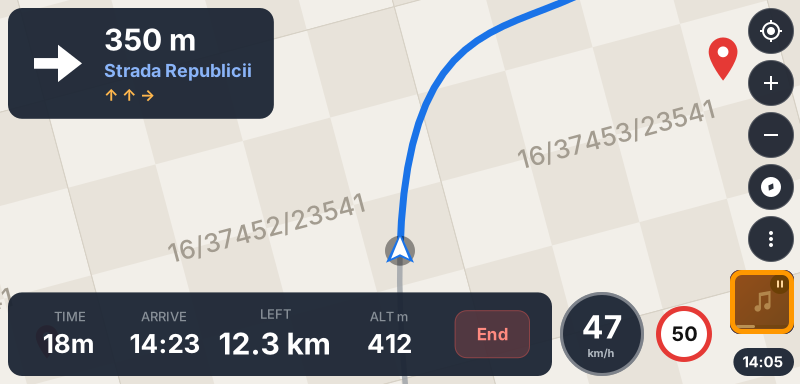
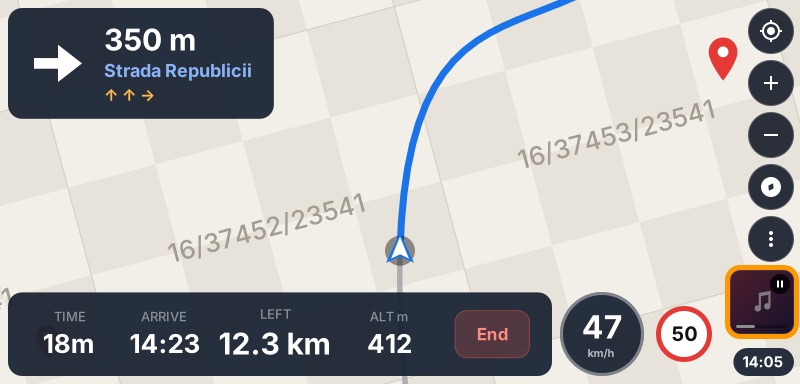
Dash music: the focus ring on the tile leaves the cover clean (F3)
Every close of the Music sheet (close, BACK, idle / near-turn auto-close,
the handlebar handed back) parks the focus on the now-playing tile, and
the usual ring painted its 40 % orange fill over the album cover plus a
5-dp stroke inside it, for the rest of the ride on non-touch dashes.

For music.tile only: no fill, and the stroke runs outside the cover (path
= frame grown by sw/2, radius 10 + sw/2 dp), so the band starts at the
cover's edge and follows its corners. Other controls keep their ring.

DashMusicFocusRingTests checks every canvas of the fix (800x384 with and
without screen margins, 800x400, 800x944, 720x704 with its 22-px top,
544x512, 1024x464, 1280x576) in free ride, navigating, off route, with a
lap card, banner + toast, night and no clock, playing and paused: one
ring, no fill, inner edge = the cover, inside the canvas and the safe
area, clear of every other hit region and of every other drawing (the
check is shown to cover the cards, FABs and clock). Closest: 1 px from
the safe-area edge, 3 px from the Menu FAB (portrait: the clock). The
touch-close case of the review keeps the cover clean at +5.1 s and +60 s.
The tests fail on the old ring.

Snapshots, reviewed: land-music-paused (regenerated) and new
land-music-tile-focus, land-margins-music-tile-focus,
port-music-paused-focus. Spec section 15 describes the ring.

Claude-Session: https://claude.ai/code/session_017N8FrDCFUzoEp21WnFFcfY

Changed region(s): [[0.9062, 0.6875, 1.0, 0.9062]]

diff --git a/Packages/OpenCfMotoKit/Tests/OpenCfMotoCoreTests/DashMusicFocusRingTests.swift b/Packages/OpenCfMotoKit/Tests/OpenCfMotoCoreTests/DashMusicFocusRingTests.swift
@@ -1,0 +1,206 @@
+// SPDX-License-Identifier: AGPL-3.0-or-later
+// Apple Music (iOS addition), fix F3: the handlebar focus ring parks on the now-playing tile after every
+// close of the Music sheet, so on the tile it has no fill and is stroked OUTSIDE the cover (the artwork
+// stays clean). On every supported canvas and map state the outset ring stays inside the canvas and the
+// safe area and clear of every other widget: hit regions and drawings (FABs, clock, cards, toasts).
+import XCTest
+@testable import OpenCfMotoCore
+
+final class DashMusicFocusRingTests: XCTestCase {
+    private let t0 = DashFixtures.musicNow
+
+    /// The canvases of fix F3 (screen margins: the 800×384 worst case of the tile tests; the NK
+    /// Advanced's 22-px pull-down zone on 720×704).
+    private let canvases: [(String, DashSize, ScreenMargins)] = [
+        ("800×384", DashSize(width: 800, height: 384), .zero),
+        ("800×384 margins", DashSize(width: 800, height: 384), ScreenMargins(top: 22, bottom: 10, left: 12, right: 14)),
+        ("800×400", DashSize(width: 800, height: 400), .zero),
+        ("800×944", DashSize(width: 800, height: 944), .zero),
+        ("720×704", DashSize(width: 720, height: 704), ScreenMargins(customised: false, top: 22)),
+        ("544×512", DashSize(width: 544, height: 512), .zero),
+        ("1024×464", DashSize(width: 1024, height: 464), .zero),
+        ("1280×576", DashSize(width: 1280, height: 576), .zero),
+    ]
+
+    /// Map states in which the tile is focusable, with what can sit next to it.
+    private func states(_ size: DashSize) -> [(String, DashModel)] {
+        let lap = DashLapTimer(title: "Lap 3 · 1:02.4", meta: "Best 0:59.8 · last 1:01.2")
+        var lapFree = DashFixtures.freeRide(size), lapNav = DashFixtures.navigating(size)
+        lapFree.lapTimer = lap
+        lapNav.lapTimer = lap
+        var overlays = DashFixtures.navigating(size)
+        overlays.linkBanner = "Reconnecting…"
+        overlays.toastText = "Handlebar buttons control the dash again"
+        var night = DashFixtures.navigating(size)
+        night.isNight = true
+        var noClock = DashFixtures.freeRide(size)
+        noClock.showClock = false
+        return [("free", DashFixtures.freeRide(size)), ("nav", DashFixtures.navigating(size)),
+                ("off-route", DashFixtures.navigating(size, offRoute: true)), ("lap", lapFree), ("lap nav", lapNav),
+                ("banner+toast", overlays), ("night", night), ("no clock", noClock)]
+    }
+
+    private struct Ring {
+        /// The stroked path's box and the stroke width.
+        var path: DashRect, width: Double
+        /// What the stroke paints: from `inner` to `outer`.
+        var outer: DashRect { path.insetBy(dx: -width / 2, dy: -width / 2) }
+        var inner: DashRect { path.insetBy(dx: width / 2, dy: width / 2) }
+    }
+
+    private func rings(_ list: DashDisplayList) -> [Ring] {
+        list.commands.compactMap {
+            guard case let .stroke(p, s) = $0, s.color == DashPalette.focusStroke, let b = p.controlPointBounds else { return nil }
+            return Ring(path: b, width: s.width)
+        }
+    }
+
+    private func focusFills(_ list: DashDisplayList) -> [DashRect] {
+        list.commands.compactMap {
+            if case let .fill(p, c, _) = $0, c == DashPalette.focusFill { return p.controlPointBounds }
+            return nil
+        }
+    }
+
+    /// What a screen-space command paints (nil: no geometry of its own).
+    private func painted(_ c: DashDrawCommand) -> DashRect? {
+        switch c {
+        case let .fill(p, _, _): return p.controlPointBounds
+        case let .stroke(p, s): return p.controlPointBounds?.insetBy(dx: -s.width / 2, dy: -s.width / 2)
+        case let .text(_, r, _): return r
+        case let .image(_, r, _): return r
+        default: return nil
+        }
+    }
+
+    private func within(_ r: DashRect, _ outer: DashRect, _ eps: Double = 1e-6) -> Bool {
+        r.minX >= outer.minX - eps && r.maxX <= outer.maxX + eps && r.minY >= outer.minY - eps && r.maxY <= outer.maxY + eps
+    }
+
+    private func same(_ a: DashRect, _ b: DashRect) -> Bool {
+        abs(a.minX - b.minX) < 1e-6 && abs(a.minY - b.minY) < 1e-6 && abs(a.maxX - b.maxX) < 1e-6 && abs(a.maxY - b.maxY) < 1e-6
+    }
+
+    /// Smallest distance between two disjoint rects (0 when they touch or overlap).
+    private func gap(_ a: DashRect, _ b: DashRect) -> Double {
+        let dx = max(0, max(a.minX - b.maxX, b.minX - a.maxX)), dy = max(0, max(a.minY - b.maxY, b.minY - a.maxY))
+        return hypot(dx, dy)
+    }
+
+    /// The chrome: every command from the first one that paints exactly a widget's frame (the first
+    /// card, the search pill or the first FAB, drawn right after the map and its markers) to the end,
+    /// overlays included. The map layer is under every piece of chrome anyway.
+    private func chrome(_ list: DashDisplayList) -> ArraySlice<DashDrawCommand> {
+        let frames = list.hitRegions.filter { $0.id != "music.tile" }.map(\.rect)
+        let start = list.commands.firstIndex { cmd in painted(cmd).map { p in frames.contains { same($0, p) } } ?? false }
+        return list.commands[(start ?? list.commands.count)...]
+    }
+
+    func testTheRingAroundTheTileStaysOutsideTheCoverAndClearOfEverythingOnEveryCanvas() {
+        for (name, size, margins) in canvases {
+            var closest = (Double.infinity, ""), closestEdge = (Double.infinity, "")
+            for (state, base) in states(size) {
+                for song in [DashFixtures.song(.playing), DashFixtures.song(.paused)] {
+                    let tag = "\(name) \(state) \(song.state)"
+                    var m = DashFixtures.withMusic(base, song)
+                    m.margins = margins
+                    let ui = DashUIController()
+                    ui.update(m)
+                    _ = ui.handle(.knob(-1), now: t0) // one ◀ from the default item
+                    XCTAssertEqual(ui.state.focusedId, "music.tile", tag)
+                    let list = ui.displayList(now: t0)
+                    guard let tile = list.hitRegions.last(where: { $0.id == "music.tile" })?.rect else {
+                        XCTFail("\(tag): no tile")
+                        continue
+                    }
+                    // no wash over the cover, one ring whose inner edge is the cover's edge
+                    XCTAssertEqual(focusFills(list), [], tag)
+                    let found = rings(list)
+                    XCTAssertEqual(found.count, 1, tag)
+                    guard let ring = found.first else { continue }
+                    let ctx = DashLayoutContext(model: m, measurer: ApproximateTextMeasurer())
+                    XCTAssertEqual(ring.width, ctx.dp(DashPalette.focusStrokeWidth), accuracy: 1e-9, tag)
+                    XCTAssertTrue(same(ring.inner, tile), "\(tag): ring inner edge \(ring.inner) ≠ cover \(tile)")
+                    // inside the canvas and the safe area
+                    let canvas = DashRect(x: 0, y: 0, width: size.width, height: size.height)
+                    XCTAssertTrue(within(ring.outer, canvas), "\(tag): \(ring.outer) leaves the canvas")
+                    XCTAssertTrue(within(ring.outer, m.safeRect), "\(tag): \(ring.outer) leaves the safe area \(m.safeRect)")
+                    // clear of every other hit region…
+                    for r in list.hitRegions where r.id != "music.tile" {
+                        XCTAssertFalse(ring.outer.intersects(r.rect), "\(tag): ring \(ring.outer) on \(r.id) \(r.rect)")
+                        if gap(ring.outer, r.rect) < closest.0 { closest = (gap(ring.outer, r.rect), "\(r.id) (\(state))") }
+                    }
+                    // … and of every other drawing (the tile's own drawing lies inside the cover); the
+                    // checked commands start at the first card and include every neighbour
+                    let drawn = chrome(list).compactMap(painted)
+                    for id in ["pill", "nav.card", "lap.card", "metrics.card", "fab.recenter", "fab.menu", "clock"] {
+                        guard let r = list.hitRegions.last(where: { $0.id == id })?.rect else { continue }
+                        XCTAssertTrue(drawn.contains { same($0, r) }, "\(tag): the drawing check misses \(id)")
+                    }
+                    if let r = list.hitRegions.last(where: { $0.id == "speed.chip" })?.rect { // gauge ∪ limit sign
+                        XCTAssertTrue(drawn.contains { within($0, r) }, "\(tag): the drawing check misses speed.chip")
+                    }
+                    for cmd in chrome(list) {
+                        guard let p = painted(cmd), !within(p, tile) else { continue }
+                        if case let .stroke(_, s) = cmd, s.color == DashPalette.focusStroke { continue }
+                        XCTAssertFalse(ring.outer.intersects(p), "\(tag): ring \(ring.outer) on a drawing \(p): \(cmd)")
+                    }
+                    let edges = [ring.outer.minY - m.safeRect.minY, m.safeRect.maxX - ring.outer.maxX, m.safeRect.maxY - ring.outer.maxY]
+                    if let e = edges.min(), e < closestEdge.0 { closestEdge = (e, state) }
+                }
+            }
+            // how close the ring comes (for the review): ≥ 1 px from the safe edge, ≥ 3 px from a widget
+            XCTAssertGreaterThanOrEqual(closestEdge.0, 1 - 1e-9, name)
+            XCTAssertGreaterThanOrEqual(closest.0, 3 - 1e-9, name)
+            print("F3 ring \(name): \(String(format: "%.2f", closest.0)) px from \(closest.1), "
+                + "\(String(format: "%.2f", closestEdge.0)) px from the safe-area edge (\(closestEdge.1))")
+        }
+    }
+
+    func testOtherFocusRingsKeepTheirFillAndInsetStroke() {
+        // FABs (circular) and rectangular controls are unchanged: fill + stroke inside the control.
+        let ui = DashUIController()
+        ui.update(DashFixtures.withMusic(DashFixtures.navigating(), DashFixtures.song()))
+        let end = ui.displayList(now: t0) // default focus: End
+        let endRect = try! XCTUnwrap(end.hitRegions.last { $0.id == "metrics.end" }?.rect)
+        XCTAssertEqual(focusFills(end).count, 1)
+        XCTAssertTrue(within(try! XCTUnwrap(rings(end).first).outer, endRect))
+        _ = ui.handle(.knob(-2), now: t0) // ◀◀ → fab.menu
+        XCTAssertEqual(ui.state.focusedId, "fab.menu")
+        let fab = ui.displayList(now: t0)
+        let fabRect = try! XCTUnwrap(fab.hitRegions.last { $0.id == "fab.menu" }?.rect)
+        XCTAssertEqual(focusFills(fab).count, 1)
+        XCTAssertTrue(same(try! XCTUnwrap(focusFills(fab).first), fabRect))
+        XCTAssertTrue(within(try! XCTUnwrap(rings(fab).first).outer, fabRect))
+    }
+
+    func testTheCoverIsNotWashedOutAfterTheSheetCloses() {
+        // The reported case: touch dash, tap the tile, tap ✕ → the focus parks on the tile; once the ring
+        // shows again (5 s after the touch, or on a non-touch dash at once) it must not tint the cover.
+        let ui = DashUIController()
+        ui.update(DashFixtures.withMusic(DashFixtures.freeRide(), DashFixtures.song(.paused)))
+        func tap(_ id: String, _ t: TimeInterval) {
+            let p = try! XCTUnwrap(ui.displayList(now: t).hitRegions.last { $0.id == id }).rect.center
+            _ = ui.handle(.touch(DashTouch(action: .down, pointerId: 0, x: Int(p.x), y: Int(p.y), time: t)), now: t)
+            _ = ui.handle(.touch(DashTouch(action: .up, pointerId: 0, x: Int(p.x), y: Int(p.y), time: t + 0.05)), now: t + 0.05)
+        }
+        tap("music.tile", t0)
+        tap("music.close", t0 + 2)
+        XCTAssertEqual(ui.state.focusedId, "music.tile")
+        XCTAssertTrue(rings(ui.displayList(now: t0 + 3)).isEmpty, "hidden for 5 s after a touch")
+        for t in [t0 + 7.2, t0 + 62] {
+            let list = ui.displayList(now: t)
+            let tile = try! XCTUnwrap(list.hitRegions.last { $0.id == "music.tile" }).rect
+            XCTAssertEqual(focusFills(list), [], "t+\(t - t0)")
+            // exactly one stroke: the cover's rounded rect (radius 10 dp) grown by half the 5-dp width, so
+            // the band starts at the cover's edge and follows its corners
+            let sw = DashPalette.focusStrokeWidth
+            let expected = DashDrawCommand.stroke(DashPath.roundedRect(tile.insetBy(dx: -sw / 2, dy: -sw / 2),
+                                                                       radius: DashDimens.musicTileRadius + sw / 2),
+                                                  DashStroke(width: sw, color: DashPalette.focusStroke, cap: .butt, join: .round))
+            XCTAssertEqual(list.commands.filter { if case let .stroke(_, s) = $0 { return s.color == DashPalette.focusStroke }; return false },
+                           [expected], "t+\(t - t0)")
+            XCTAssertTrue(same(try! XCTUnwrap(rings(list).first).inner, tile))
+        }
+    }
+}

diff --git a/Packages/OpenCfMotoKit/Tests/OpenCfMotoCoreTests/DashSnapshotTests.swift b/Packages/OpenCfMotoKit/Tests/OpenCfMotoCoreTests/DashSnapshotTests.swift
@@ -254,6 +254,33 @@ final class DashSnapshotTests: XCTestCase {
         snapshot("land-music-paused", list)
     }
 
+    /// Fix F3: the ring on the tile has no fill and runs OUTSIDE the cover (the artwork stays clean).
+    private func focusedTile(_ model: DashModel, _ state: DashNowPlaying.State) -> DashDisplayList {
+        let list = frame(music(model, DashFixtures.song(state)), now: musicNow) { ui in
+            _ = ui.handle(.knob(-1), now: self.musicNow)
+            XCTAssertEqual(ui.state.focusedId, "music.tile")
+        }
+        XCTAssertFalse(list.commands.contains { if case let .fill(_, c, _) = $0 { return c == DashPalette.focusFill }; return false })
+        return list
+    }
+
+    func testLandscapeMusicTileFocus() {
+        snapshot("land-music-tile-focus", focusedTile(DashFixtures.navigating(), .playing))
+    }
+
+    func testLandscapeMarginsMusicTileFocus() {
+        // the tightest landscape case: 1 px from the safe area's right edge, 3 px under the Menu FAB,
+        // the clock gives way
+        var m = DashFixtures.navigating()
+        m.margins = ScreenMargins(top: 22, bottom: 10, left: 12, right: 14)
+        snapshot("land-margins-music-tile-focus", focusedTile(m, .playing))
+    }
+
+    func testPortraitMusicPausedFocus() {
+        // portrait: the ring ends 3 px under the clock chip
+        snapshot("port-music-paused-focus", focusedTile(DashFixtures.navigating(DashFixtures.port), .paused))
+    }
+
     func testLandscapeMusicSheet() {
         let list = sheet(touchDash(music(DashFixtures.freeRide())))
         assertHas(list, ["music.sheet", "music.previous", "music.playPause", "music.next", "music.close"])

diff --git a/Packages/OpenCfMotoKit/Sources/OpenCfMotoCore/Dash/DashUIController.swift b/Packages/OpenCfMotoKit/Sources/OpenCfMotoCore/Dash/DashUIController.swift
@@ -1056,6 +1056,15 @@ public final class DashUIController: @unchecked Sendable {
                 cmds.append(.fill(DashPath.ellipse(in: r), DashPalette.focusFill, .nonZero))
                 cmds.append(.stroke(DashPath.ellipse(in: r.insetBy(dx: sw / 2, dy: sw / 2)),
                                     DashStroke(width: sw, color: DashPalette.focusStroke, cap: .butt, join: .round)))
+            } else if id == DashFocusEngine.musicTileId {
+                // Fix F3: the ring parks on the tile after every close of the Music sheet, so a fill or
+                // an inset stroke would wash out the album cover (the point of the tile) for the rest of
+                // the ride. No fill, and the stroke OUTSIDE the cover: path r grown by sw/2, so the band
+                // covers r … r + sw and follows the cover's corners. Room for it on every canvas: the tile
+                // is 8 dp under the last FAB and 8 dp above the clock (DashMusicLayoutTests).
+                let rad = min(c.dp(DashDimens.musicTileRadius), min(r.width, r.height) / 2)
+                cmds.append(.stroke(DashPath.roundedRect(r.insetBy(dx: -sw / 2, dy: -sw / 2), radius: rad + sw / 2),
+                                    DashStroke(width: sw, color: DashPalette.focusStroke, cap: .butt, join: .round)))
             } else {
                 let rad = min(c.dp(DashPalette.focusRadius), min(r.width, r.height) / 2)
                 cmds.append(.fill(DashPath.roundedRect(r, radius: rad), DashPalette.focusFill, .nonZero))

diff --git a/docs/spec/navigation-dash.md b/docs/spec/navigation-dash.md
@@ -1364,7 +1364,12 @@ nothing) → night: 15 % black (never inverted) → 1-dp outline → progress tr
 bottom (known duration only; fill = whole px) → paused: 45 % black dim + 20-dp ❚❚ badge top-right. Tap /
 ★ → `.openMusic`. Focusable last in the map lists (free ride `pill … fab.menu, music.tile`, navigating
 `metrics.end, fab.* , music.tile`): one ◀ from the default item reaches it. Drawn but not focusable in
-preview / arrival.
+preview / arrival. Focus ring on the tile (fix F3; every close of the sheet parks the focus there, so the
+usual ring would tint the cover for the rest of the ride): no fill, and the 5-dp stroke runs OUTSIDE the
+cover (path = frame grown by 2.5 dp, radius 12.5 dp: the band starts at the cover's edge and follows its
+corners). It fits on every canvas, inside the safe area and clear of every other widget: 800×384
+725–799 × 265–339, 3 px under the Menu FAB and 9 px above the clock; with screen margins 1 px inside the
+safe area; portrait 3 px under the clock (`DashMusicFocusRingTests`).
 
 **Music sheet** (`DashSheet.music`, `DashLayout.musicSheet`). Opaque #12171E over the whole canvas;
 nothing of the map or its chrome is drawn under it. While navigating the nav card is drawn again ON TOP
